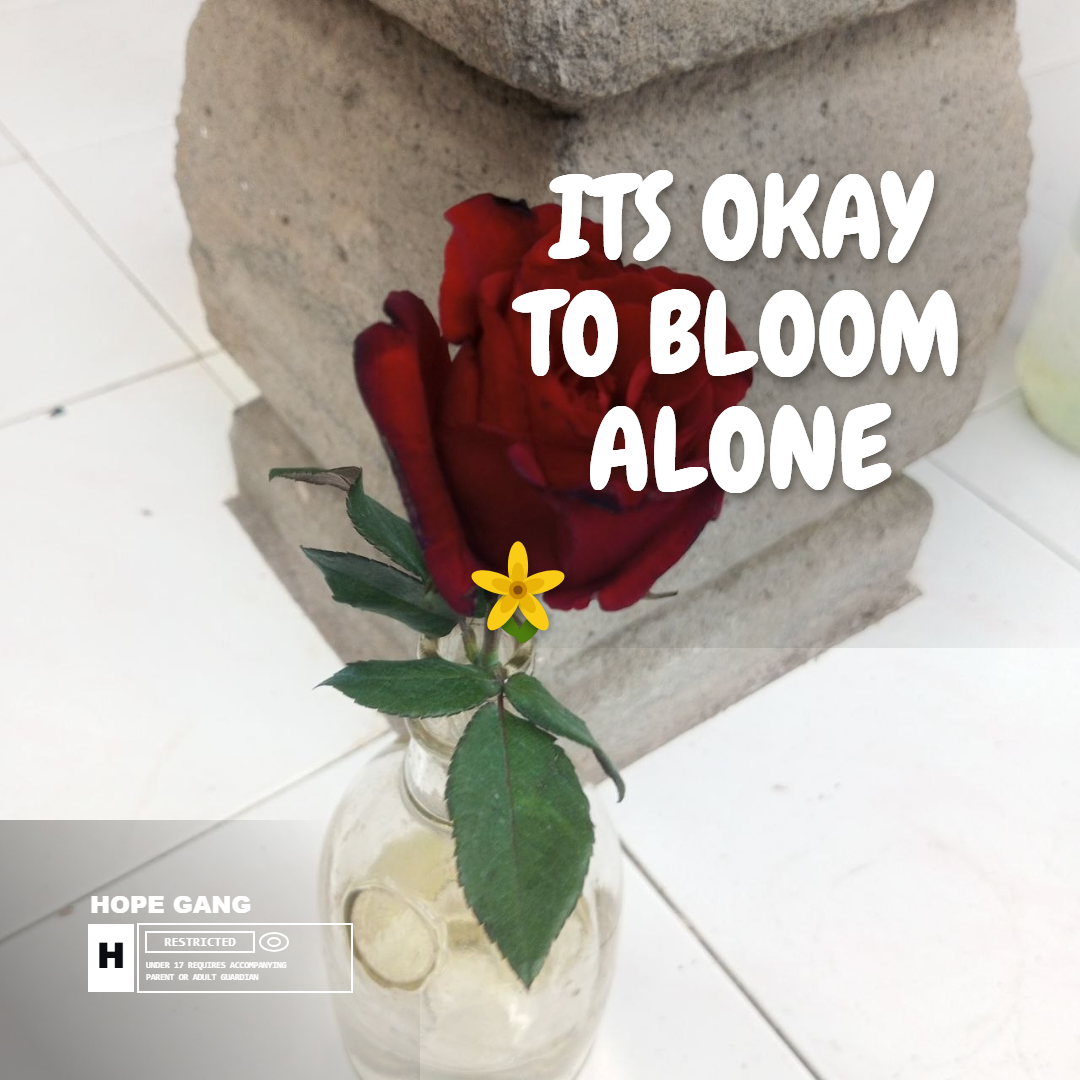
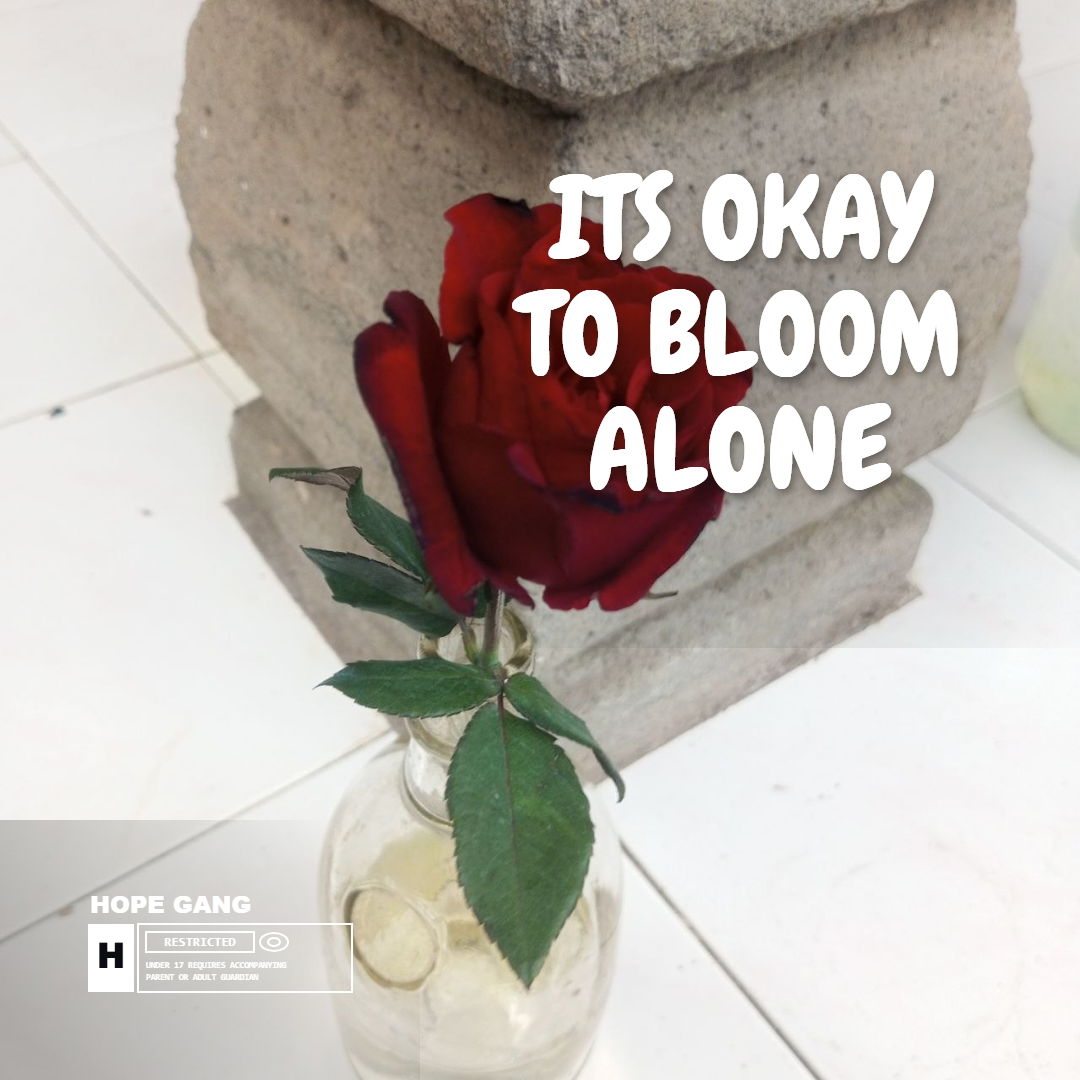
fix(bloom_alone): remove yellow flower graphic to retain pure typography overlay

Changed region(s): [[0.0, 0.7333, 0.2139, 1.0], [0.4278, 0.4889, 0.5194, 0.6111]]

diff --git a/src/features/templates/bloom_alone_template.js b/src/features/templates/bloom_alone_template.js
@@ -1,13 +1,12 @@
 import {
   drawHopeGangBadge,
-  drawBloomFlower,
   drawChunkyHeadline
 } from './bloom_alone_helpers.js';
 
 export const bloomAloneTemplate = {
   id: 'bloom_alone',
   name: 'Bloom Alone',
-  description: 'Streetwear urban bloom poster with bold bubbly typography, Hope Gang parental advisory badge, and lone yellow flower accent',
+  description: 'Streetwear urban quote poster with casual hand-drawn typography and Hope Gang parental advisory badge',
   previewImage: 'assets/bloom_alone_reference.png',
   aspectRatio: '1:1',
   tag: 'STREETWEAR',
@@ -40,14 +39,14 @@ export const bloomAloneTemplate = {
     ctx.save();
     // Top-right headline contrast gradient
     const trGrad = ctx.createRadialGradient(cw * 0.72, ch * 0.28, 50, cw * 0.72, ch * 0.28, 480);
-    trGrad.addColorStop(0, 'rgba(0, 0, 0, 0.28)');
+    trGrad.addColorStop(0, 'rgba(0, 0, 0, 0.22)');
     trGrad.addColorStop(1, 'rgba(0, 0, 0, 0)');
     ctx.fillStyle = trGrad;
     ctx.fillRect(cw * 0.35, 0, cw * 0.65, ch * 0.6);
 
     // Bottom-left badge contrast gradient
     const blGrad = ctx.createLinearGradient(60, ch, 360, ch - 220);
-    blGrad.addColorStop(0, 'rgba(0, 0, 0, 0.45)');
+    blGrad.addColorStop(0, 'rgba(0, 0, 0, 0.3)');
     blGrad.addColorStop(1, 'rgba(0, 0, 0, 0)');
     ctx.fillStyle = blGrad;
     ctx.fillRect(0, ch - 260, 420, 260);
@@ -57,12 +56,7 @@ export const bloomAloneTemplate = {
     const headline = state.caption || 'ITS OKAY\nTO BLOOM\nALONE';
     drawChunkyHeadline(ctx, headline, 740, 175, 116);
 
-    // 5. Signature Wildflower Bloom Accent
-    if (!state.hideFlower) {
-      drawBloomFlower(ctx, 518, 590, 46);
-    }
-
-    // 6. Hope Gang / Restricted Parental Advisory Badge
+    // 5. Hope Gang / Restricted Parental Advisory Badge
     drawHopeGangBadge(ctx, 88, 924);
   }
 };
